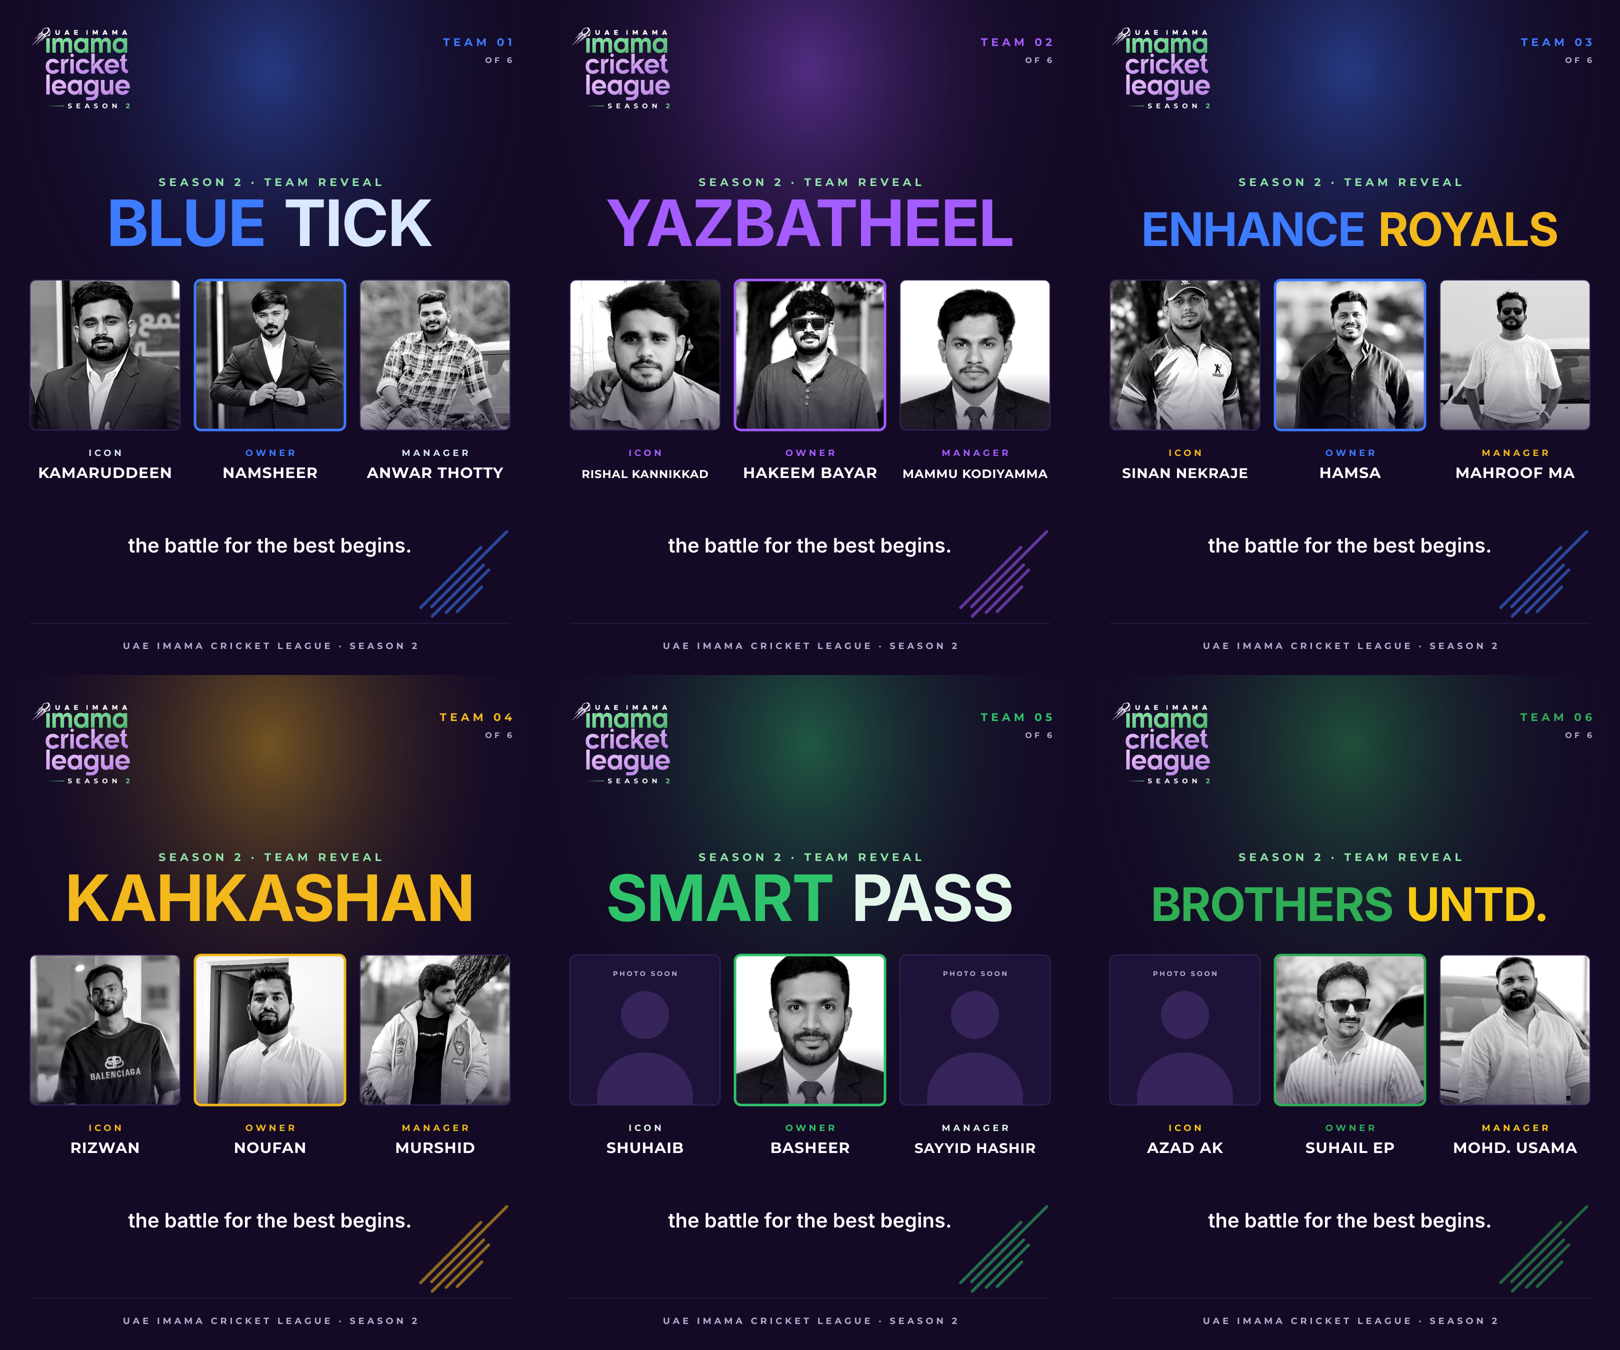
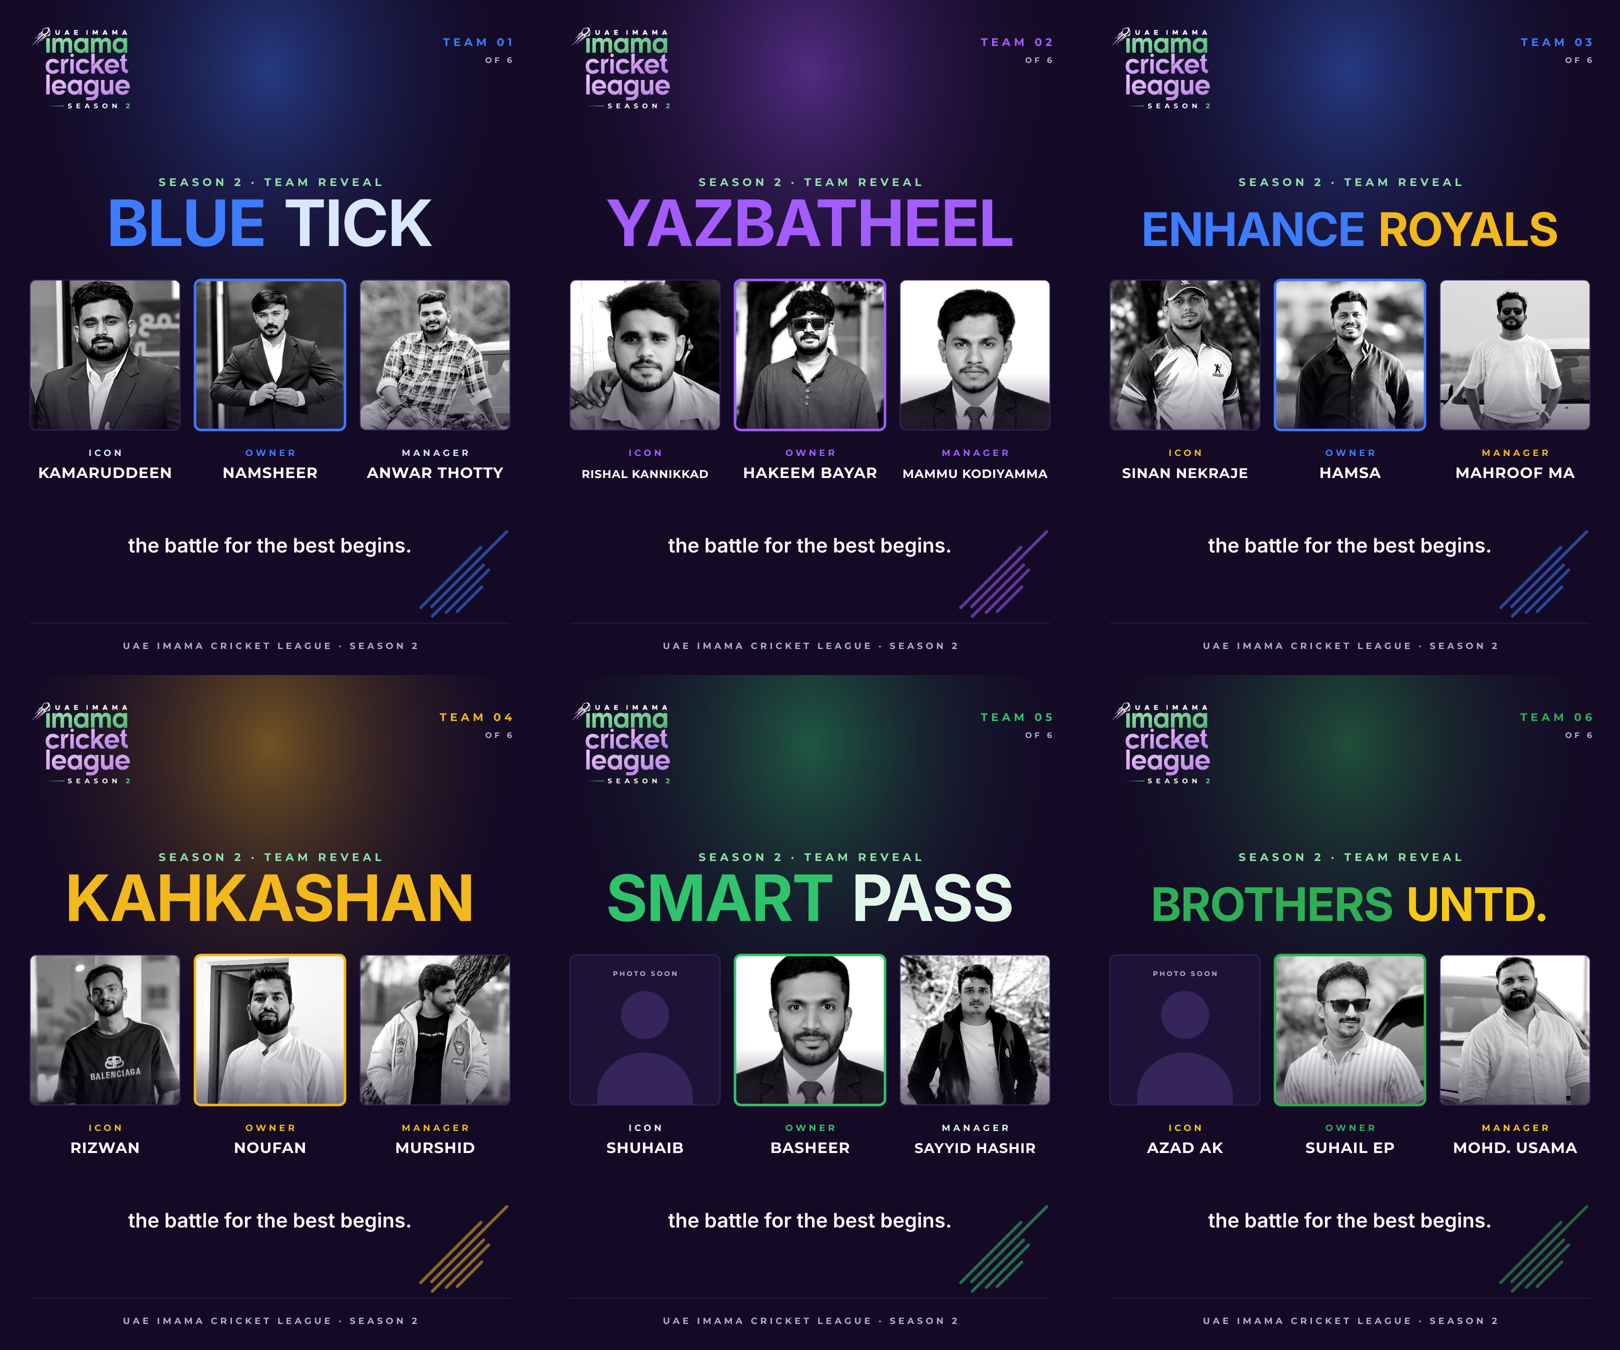
Team reveal: add Smart Pass manager photo
Claude-Session: https://claude.ai/code/session_01SwyQDQjSwhzbvubs2RWco5

Changed region(s): [[0.5556, 0.6844, 0.6481, 0.84]]

diff --git a/promo/team-reveal/README.md b/promo/team-reveal/README.md
@@ -16,7 +16,7 @@ Real photos only, shown in black and white. Anyone without a photo gets a "PHOTO
 
 | Team | Missing |
 |---|---|
-| Smart Pass | Shuhaib (icon), Sayyid Hashir (manager) |
+| Smart Pass | Shuhaib (icon) |
 | Brothers Untd. | Azad AK (icon) |
 
 People were matched to photos by eye against the Season 2 auction posters. Kahkashan, Enhance Royals, Brothers Untd. and Yazbatheel photos were supplied per team by the organiser; check the other faces before posting.
